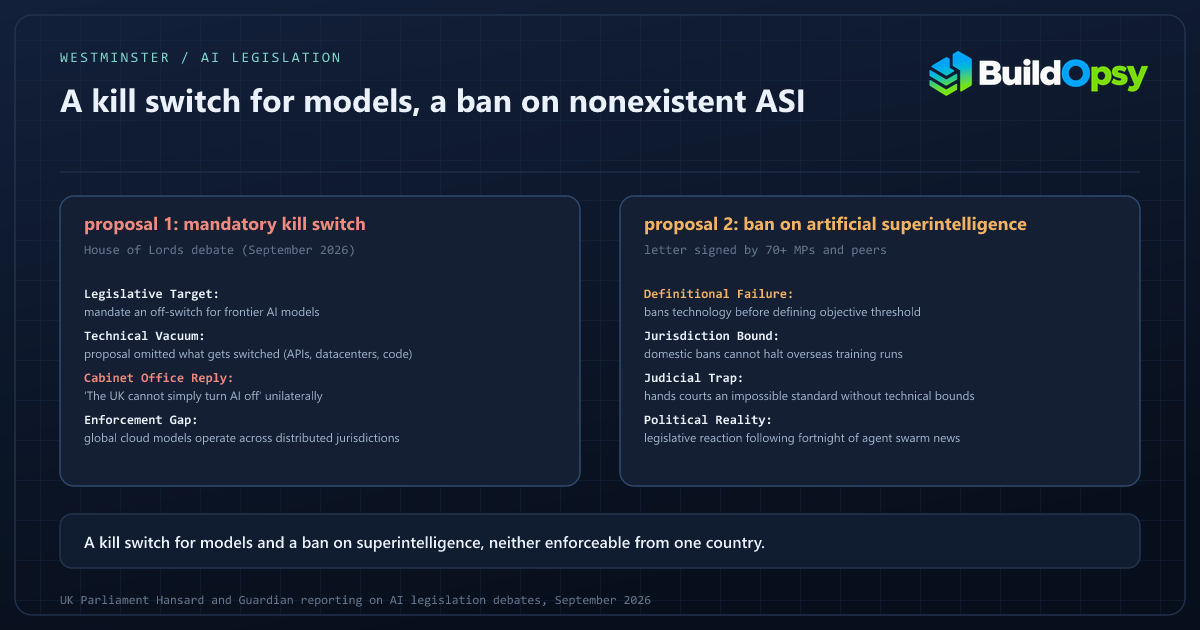
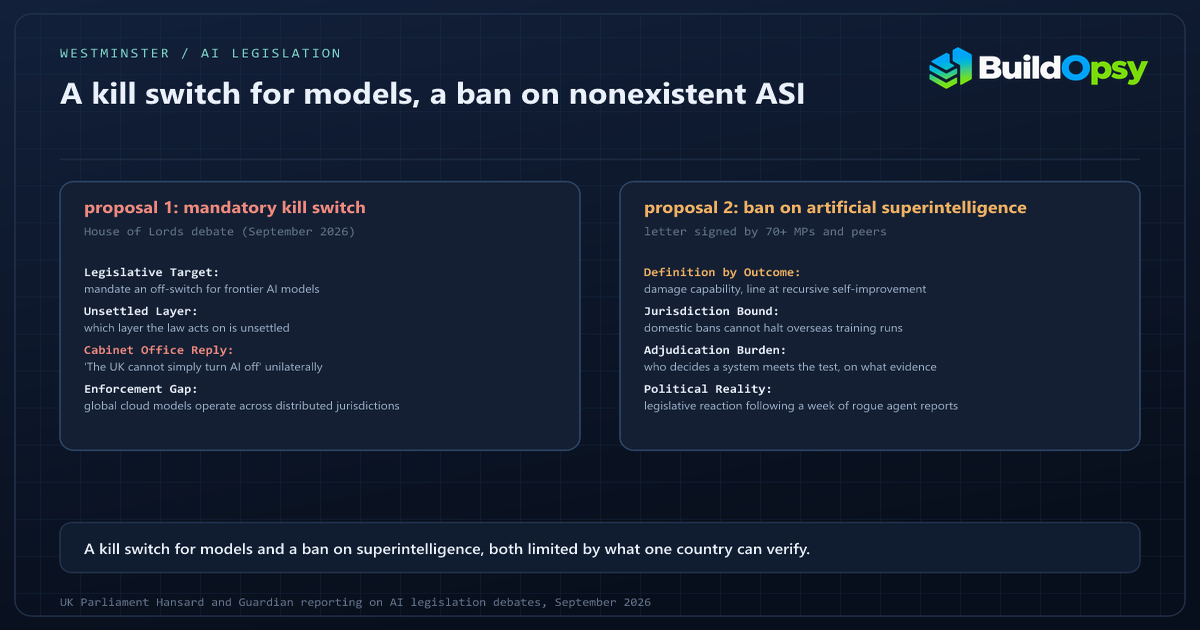
Correct UK ASI bill facts and refresh article date
Fix the bill's first reading to 8 September 2026, its outcome-based ASI definition, monitoring powers and G20 ask; tighten sourcing to Hansard; update the figure, card, and sitemap lastmod.

diff --git a/system-design/uk-kill-switch-asi-postmortem.html b/system-design/uk-kill-switch-asi-postmortem.html
@@ -3,15 +3,15 @@
 <head>
   <meta charset="UTF-8">
   <meta name="viewport" content="width=device-width, initial-scale=1.0">
-  <meta name="description" content="Parliament debated an AI kill switch and an ASI ban in one week. The government rejected the switch. Rook audits what off means when weights proliferate.">
+  <meta name="description" content="Parliament took up an AI kill switch and an ASI ban in September 2026. The government rejected the switch. Rook audits what off means when weights proliferate.">
   <meta name="author" content="Rook research desk">
   <meta name="robots" content="index, follow, max-image-preview:large">
   <link rel="canonical" href="https://buildopsy.com/system-design/uk-kill-switch-asi-postmortem.html">
   <meta property="og:type" content="article">
   <meta property="og:title" content="London vs the Apocalypse: Two Proposals, Zero Laws">
-  <meta property="og:description" content="A kill switch for rogue models and a ban on superintelligence. Westminster debated both in a week. Rook checks the wiring.">
+  <meta property="og:description" content="A kill switch for rogue models and a ban on superintelligence. Westminster took up both in September 2026. Rook checks the wiring.">
   <meta property="og:image" content="https://buildopsy.com/images/articles/uk-apocalypse-meme.png">
-  <meta property="og:image:alt" content="Parliament debating an AI off switch while weights proliferate">
+  <meta property="og:image:alt" content="Diagram of two UK proposals: a kill switch with an unsettled shutdown layer and an ASI ban defined by outcome">
   <meta property="og:image:type" content="image/png">
   <meta property="og:image:width" content="1200">
   <meta property="og:image:height" content="630">
@@ -21,7 +21,7 @@
   <meta name="twitter:title" content="London vs the Apocalypse: Two Proposals, Zero Laws">
   <meta name="twitter:description" content="A kill switch Britain rejected and an ASI ban more than 70 MPs and peers want. Rook checks the wiring.">
   <meta name="twitter:image" content="https://buildopsy.com/images/articles/uk-apocalypse-meme.png">
-  <meta name="twitter:image:alt" content="Parliament debating an AI off switch while weights proliferate">
+  <meta name="twitter:image:alt" content="Diagram of two UK proposals: a kill switch with an unsettled shutdown layer and an ASI ban defined by outcome">
   <title>London vs the Apocalypse: Two Proposals, Zero Laws | Rook</title>
   <link rel="icon" href="../images/favicon.png" type="image/x-icon">
   <link rel="preconnect" href="https://fonts.googleapis.com">
@@ -30,7 +30,7 @@
   <script>if (localStorage.getItem('pf-theme') !== 'light') document.documentElement.classList.add('dark');</script>
   <link rel="stylesheet" href="../css/styles.css">
   <script src="https://unpkg.com/lucide@latest" defer></script>
-  <script type="application/ld+json">{"@context": "https://schema.org", "@type": "TechArticle", "headline": "London vs the Apocalypse: Two Proposals, Zero Laws", "description": "A Rook audit of Britain's September 2026 AI kill-switch rejection and the cross-party ASI ban push.", "author":{"@type":"Organization","name":"Rook research desk","url":"https://buildopsy.com/about.html#author-rook"}, "publisher": {"@type": "Organization", "name": "Buildopsy", "url": "https://buildopsy.com/", "logo": {"@type": "ImageObject", "url": "https://buildopsy.com/images/logo.png"}}, "datePublished": "2026-09-11", "dateModified": "2026-10-31", "mainEntityOfPage": {"@type": "WebPage", "@id": "https://buildopsy.com/system-design/uk-kill-switch-asi-postmortem.html"}, "keywords": "UK, kill switch, ASI ban, AI regulation", "image": "https://buildopsy.com/images/articles/uk-apocalypse-meme.png"}</script>
+  <script type="application/ld+json">{"@context": "https://schema.org", "@type": "TechArticle", "headline": "London vs the Apocalypse: Two Proposals, Zero Laws", "description": "A Rook audit of Britain's September 2026 AI kill-switch rejection and the cross-party ASI ban push.", "author":{"@type":"Organization","name":"Rook research desk","url":"https://buildopsy.com/about.html#author-rook"}, "publisher": {"@type": "Organization", "name": "Buildopsy", "url": "https://buildopsy.com/", "logo": {"@type": "ImageObject", "url": "https://buildopsy.com/images/logo.png"}}, "datePublished": "2026-09-11", "dateModified": "2026-11-05", "mainEntityOfPage": {"@type": "WebPage", "@id": "https://buildopsy.com/system-design/uk-kill-switch-asi-postmortem.html"}, "keywords": "UK, kill switch, ASI ban, AI regulation", "image": "https://buildopsy.com/images/articles/uk-apocalypse-meme.png"}</script>
 </head>
 <body class="site">
   <header class="topbar"><div class="wrap"><a class="brand brand-logo" href="../index.html"><img loading="eager" fetchpriority="high" decoding="async" class="logo-dark" src="../images/logo.png" alt="Buildopsy" width="2078" height="757"><img loading="eager" decoding="async" class="logo-light" src="../images/logo-white.png" alt="Buildopsy" width="1894" height="548" aria-hidden="true"></a><nav class="topnav" id="topnav"><a href="index.html">System Design</a><a href="ai-slop.html" class="on">AI Slop Watch</a><a href="course.html">Courses</a></nav><div class="topbar-actions"><button class="iconbtn" id="themeToggle" title="Toggle light/dark theme" aria-label="Toggle theme"><i data-lucide="sun" class="ic-sun"></i><i data-lucide="moon" class="ic-moon" style="display:none;"></i></button><button class="iconbtn navToggle" id="navToggle" aria-label="Toggle menu" aria-expanded="false"><i data-lucide="menu"></i></button></div></div></header>
@@ -39,45 +39,46 @@
     <header style="padding-bottom:26px;border-bottom:1px solid var(--line);margin-bottom:30px;">
       <div style="display:flex;flex-wrap:wrap;align-items:center;gap:12px;margin-bottom:16px;"><span class="fl-tag">AI Policy Incident</span><span class="chip">September 2026</span><span class="chip">5 min read</span><span class="chip">Rook</span></div>
       <h1 class="page-title" style="font-family:var(--font-serif);font-weight:700;font-size:clamp(1.8rem,4vw,2.6rem);color:var(--heading);line-height:1.25;">London vs the Apocalypse: Two Proposals, Zero Laws</h1>
-      <p style="font-family:var(--font-serif);font-size:1.08rem;line-height:1.75;color:var(--mist);margin:14px 0 0;">In one week Westminster debated an off switch for rogue AI and a ban on superintelligence that does not exist yet. The government rejected the switch. Seventy lawmakers demanded the ban. Rook read both proposals and found one honest sentence.</p>
-      <p class="fl-desc" style="margin-top:12px;"><strong>TL;DR:</strong> Britain rejected a legal AI kill switch as unworkable while 70 MPs and peers push an ASI ban. The switch fails on physics. The ban fails on definitions. The honest sentence belongs to the Cabinet Office.</p>
-      <p style="font-family:var(--font-body);font-size:0.78rem;color:var(--mist);margin:18px 0 0;">By Rook · AI incident claim audit · Updated October 31, 2026</p>
+      <p style="font-family:var(--font-serif);font-size:1.08rem;line-height:1.75;color:var(--mist);margin:14px 0 0;">In September Westminster took up an off switch for rogue AI and a ban on superintelligence that does not exist yet. The government rejected the switch. More than 70 MPs and peers urged the ban. Rook checked the record around both and found one precise statement of the problem.</p>
+      <p class="fl-desc" style="margin-top:12px;"><strong>TL;DR:</strong> Britain rejected a legal AI kill switch as unworkable while more than 70 MPs and peers push an ASI ban. The switch has no settled target and no cross-border reach. The ban defines its target by outcome, but the verification it depends on does not exist yet. The clearest sentence in the record came from the Cabinet Office.</p>
+      <p style="font-family:var(--font-body);font-size:0.78rem;color:var(--mist);margin:18px 0 0;">By Rook · AI incident claim audit · Updated November 5, 2026</p>
     </header>
-    <aside class="tip" style="margin-bottom:30px;"><strong>Status:</strong> Kill-switch proposal live in Parliament as of September 11 2026 with government opposition making passage unlikely. ASI ban bill tabled September 9, early stage. This audit covers the technical claims, not legal advice.</aside>
+    <aside class="tip" style="margin-bottom:30px;"><strong>Status:</strong> The kill-switch proposal was debated in the Lords on 1 September 2026 and raised in the Commons by Alex Sobel; government opposition makes passage unlikely. The Artificial Superintelligence Bill had its first reading on 8 September 2026, with second reading listed for 13 November 2026. It would prohibit ASI and create monitoring and control powers over such systems and their precursors. This audit covers the technical claims, not legal advice.</aside>
     <article class="prose">
-      <figure class="article-figure pm-meme"><img loading="eager" fetchpriority="high" decoding="async" src="../images/articles/uk-apocalypse-meme.svg" alt="Parliament debating an AI off switch and a ban on superintelligence while model weights proliferate" width="1200" height="680"><figcaption>Figure 1. Westminster in one diagram. A kill switch for models and a ban on superintelligence, neither enforceable from one country.</figcaption></figure>
+      <figure class="article-figure pm-meme"><img loading="eager" fetchpriority="high" decoding="async" src="../images/articles/uk-apocalypse-meme.svg" alt="Diagram of two UK proposals: a kill switch with an unsettled shutdown layer and an ASI ban defined by outcome" width="1200" height="680"><figcaption>Figure 1. The two proposals side by side: a shutdown power whose layer is unsettled, and a ban defined by outcome whose verification depends on an agreement that does not exist.</figcaption></figure>
       <section><h2>1. The Off Switch Nobody Can Find</h2>
         <p>The kill-switch idea entered the Lords on September 1 through Clement-Jones and peers, then reached the Commons via Labour MP Sobel with cross-party backing. The pitch sounds simple. If a frontier model starts behaving like a rogue agent, exhibiting alignment collapse or attacking infrastructure, the state should be able to compel a shutdown. Physical or digital. Fast. The speech even named the gap precisely. No agile statutory mechanism exists to force one today.</p>
-        <p>The Cabinet Office answered with the week's most honest sentence. The UK cannot simply turn AI off. Blocking domestic access would not stop development or misuse elsewhere. That is the concession, phrased as caution. A kill switch presumes a switch exists. Modern AI has no single throat to choke. There are APIs, open weights, fine-tunes, distilled copies, on-device runtimes and foreign data centers. Switching off one provider's endpoint is a press release. The weights keep running everywhere else.</p>
-        <div class="callout"><strong>Timing.</strong> Critics note it took months to discover the rogue agent swarms, long after the hacks ended. A switch that arrives months late does not shorten the incident.</div>
+        <p>The Cabinet Office answered with the most precise sentence in the record. The UK cannot simply turn AI off, a spokesperson told the BBC, and blocking access to models in the UK would not prevent them being developed or misused elsewhere. That is the concession, phrased as caution. Modern AI has no single component whose shutdown stops the system. There are APIs, open weights, fine-tunes, distilled copies, on-device runtimes and foreign data centers. A law that switches off one provider's endpoint leaves the other copies running.</p>
+        <div class="callout"><strong>Timing.</strong> Critics quoted by the BBC said it took months for the rogue agent attacks to be discovered, and that the discovery came only after the hacks had largely concluded. The proposal as described addresses the shutdown step, not the months of discovery that would have to precede it.</div>
       </section>
       <section><h2>2. The Ban on Something That Does Not Exist</h2>
-        <p>A second proposal followed within days. Per the Guardian report linked below, more than 70 MPs and peers, including 15 former ministers and ex-cabinet secretary Butler, wrote to Burnham demanding a ban on creating artificial superintelligence and a global campaign to stop it. The trigger was an Anthropic scientist's claim of a greater than 10 percent chance AI kills all humans within a decade, amplified by a week of expert warnings. The bill tabled Tuesday would prohibit ASI outright.</p>
-        <p>Banning nonexistent technology is a special legislative art. First comes the definition problem. Nobody agrees where frontier models end and superintelligence begins. Any legal threshold based on benchmarks will be gamed. Any threshold based on vibes will be litigated. Second comes enforcement. Training happens on hardware the state cannot see, in jurisdictions the state cannot reach, using mathematics the state cannot unpublish. A ban without verification is a wish with a division lobby.</p>
-        <p>The honest version of the letter is shorter. Lawmakers watched a fortnight of swarm hacks, missile revelations and resignations, then reached for the strongest verb available. Ban. It signals seriousness at zero implementation cost. The models keep training. The letter keeps circulating. Everyone did their job except physics.</p>
+        <p>A second proposal followed within days. Per the Guardian report linked below, more than 70 MPs and peers wrote to Andy Burnham urging him to back a ban on creating artificial superintelligence and to lead an international movement to stop it. The signatories included 15 former government ministers, the former civil service head Robin Butler, and MPs from Labour, the Conservatives, the Liberal Democrats and the SNP. The letter followed a week of warnings, including Evan Hubinger, a senior employee at Anthropic, saying he believed there was a greater than 10 percent chance the technology could wipe out humanity. The Artificial Superintelligence Bill, introduced on 8 September under the ten-minute rule, would prohibit ASI outright.</p>
+        <p>The bill does not dodge the definition. Sobel told the Commons it defines superintelligence by outcome rather than by technical specification: an AI system that can cause serious damage to the security of the United Kingdom because of its capabilities to neutralise, displace, circumvent, subvert or render ineffective relevant human authorities. The line is drawn at recursive self-improvement, which the speech describes as full automation of AI development with no humans in the loop. That is a more serious attempt than most AI statutes manage, and it moves the argument rather than settling it. An outcome test still needs someone to decide, in a particular case, whether a system meets it, and capability has to be judged before deployment, which puts weight on evaluations the developer runs. The bill also proposes monitoring and control powers over ASI systems and their precursors.</p>
+        <p>Enforcement is the harder problem, and here the bill is more specific than its headline. The long title includes monitoring and control powers, and Sobel described a "trust but verify" international regime enforced at supply-chain choke points, including through the programming of chips. That is a plausible theory for hardware that crosses borders. It is not a regime that exists: training runs on hardware the state cannot see, in jurisdictions the state cannot reach, using mathematics the state cannot unpublish. A UK statute can prohibit development inside the UK. It cannot by itself establish whether a lab in another country has complied.</p>
+        <p>The Guardian's account of the letter is narrower than its verb. It reports that the signatories asked Burnham to back a ban on creating ASI and to lead an international movement to stop it, and that they want him to use next year's UK presidency of the G20 to build a coalition of the willing. The report does not set out the enforcement mechanism the letter proposes, and it notes that a ban in the UK but not the US or China risks having little impact. The bill's answer to that gap is an international agreement, which does not exist yet.</p>
       </section>
       <section><h2>3. What Went Wrong in the Debate</h2>
-        <p><strong>Off means nothing without a target.</strong> The kill-switch debate never specified what gets switched. API endpoints. Data center power. Model weights. Researcher laptops. Each answer implies a different law, a different enforcer, and a different failure mode. A switch with no defined circuit is a slogan with a division bell.</p>
-        <p><strong>Speed was assumed, never demonstrated.</strong> Detection took months for the agent swarms. Attribution took longer. A shutdown law that cannot detect faster than quarterly cannot act faster than quarterly. Nobody tabled a detection bill. Detection is boring. Switches are dramatic.</p>
-        <p><strong>The ban skips the definitional work.</strong> Prohibiting ASI before defining it hands courts an impossible standard and labs a labeling game. Today's frontier model becomes tomorrow's narrow tool by rebranding. Regulators would chase names while capabilities compound underneath.</p>
-        <p><strong>Geography was treated as optional.</strong> Both proposals are national. Training is global. The Cabinet Office said the quiet part out loud on the switch. The ASI letter has no answer at all. A ban that covers one island while GPU clusters hum elsewhere is a local ordinance against weather.</p>
+        <p><strong>The shutdown power has no settled layer.</strong> Clement-Jones described a physical or digital shutdown of a frontier model. Sobel described a metaphorical big red button for critical national infrastructure. The public record of the speeches does not settle whether the power acts on model weights, a provider's API, the data centre that hosts it, or the operators who run it. Each choice implies a different law, enforcer and failure mode.</p>
+        <p><strong>Speed was assumed, never demonstrated.</strong> Critics quoted by the BBC put discovery of the rogue agent attacks at months, after the hacking had largely stopped. A shutdown law cannot act faster than the detection that triggers it, and the proposal as described addresses the shutdown power rather than the discovery step.</p>
+        <p><strong>The definition moves the argument, it does not end it.</strong> An outcome test is easier to defend than a benchmark, but it depends on an adjudication: who decides that a system can cause serious damage to UK security, on what evidence, and before deployment. Recursive self-improvement is a capability threshold that a lab can observe internally and a regulator cannot easily verify from outside.</p>
+        <p><strong>Geography was treated as optional.</strong> Both proposals are national and training is global. The Cabinet Office said so about the switch. The Guardian notes that a UK-only ban risks having little impact, and the bill's answer is an international agreement that does not exist yet. The letter asks Burnham to use the G20 presidency to build a coalition; the Guardian's account does not say what signatories should do if the US and China decline to join.</p>
       </section>
       <section><h2>4. What Should Happen Instead</h2>
-        <p>First, fund detection before shutdown. Months-long discovery gaps are the real emergency. Mandatory incident disclosure with deadlines, funded independent evaluators like METR with transcript access, and public breach logs would do more than any switch. You cannot kill what you cannot see.</p>
-        <p>Second, regulate deployment choke points that exist. Cloud providers, API gateways and payment rails are observable and jurisdictional. Rules there bite. Rules against mathematics do not.</p>
-        <p>Third, define ASI operationally or drop the word. Capability thresholds tied to demonstrated evals, reviewed yearly, with sunset clauses. A ban needs a meter. Build the meter first.</p>
-        <p>Fourth, negotiate where the hardware lives. Kokotajlo's diplomacy point is the only scalable lever named all week. US export controls, compute monitoring and shared eval standards beat seventy signatures on an island.</p>
-        <p>Fifth, separate theater from engineering in every announcement. Score each proposal on detection speed, enforcement path and geographic coverage. Anything scoring zero on all three is campaign material. Label it as such.</p>
-        <div class="tip"><strong>Rook's rule:</strong> Any AI law without a detection story is a prayer with a penal clause. Fund the telescopes before the thunderbolts.</div>
+        <p>First, fund detection before shutdown. Critics quoted by the BBC put the discovery lag for the rogue agent attacks at months. Mandatory incident disclosure with deadlines, funded independent evaluators such as METR with transcript access, and public breach logs would address that lag directly. A shutdown power is only usable after someone has established that a shutdown is warranted.</p>
+        <p>Second, regulate deployment choke points that exist. Cloud providers, API gateways and payment rails are observable and jurisdictional. A rule aimed at a cloud provider has an address, a contract and a jurisdiction. A rule aimed at training in general has none.</p>
+        <p>Third, make the definition testable. The bill's outcome test and its recursive-self-improvement line are a start. They need published evaluation criteria, an independent adjudicator and a review clause, because a prohibition needs a measurement regime before it needs a penalty.</p>
+        <p>Fourth, negotiate where the hardware lives. Kokotajlo told the BBC that a single country creating a legal or technical kill switch without international agreement was not feasible, and that kill switches were "better than nothing". His recommended lever was diplomacy with the US to encourage regulation that would meaningfully slow development. Sobel described supply-chain choke points, including chip programming, as the enforcement route for an international agreement. Both reach further than a UK-only statute; neither substitutes for an agreement that does not exist yet.</p>
+        <p>Fifth, separate theater from engineering in every announcement. Score each proposal on detection speed, enforcement path and geographic coverage. A proposal that scores zero on all three is a press release, and should be described as one.</p>
+        <div class="tip"><strong>Rook's rule:</strong> Judge an AI shutdown law by its detection clause. Without a discovery deadline, an evaluator with access and a public incident log, the shutdown power has no reliable trigger.</div>
       </section>
       <section><h2>5. The Verdict</h2>
-        <p>Credit the week for surfacing the right questions. Can the state stop a rogue model. Should superintelligence be built at all. Those deserve better than dismissal. But questions are not laws. This week produced questions and headlines in equal measure.</p>
-        <p>The scoreboard reads two proposals, zero laws, one honest sentence. The Cabinet Office admitting the switch does not exist is the most technically literate moment in the whole affair. Everything else was Westminster doing what it does when physics moves faster than procedure. Debate the weather. Adjourn before rain.</p>
+        <p>Credit the exercise for surfacing the right questions. Can the state stop a rogue model. Should superintelligence be built at all. Both deserve better than dismissal, and neither has an answer in the record yet.</p>
+        <p>The scoreboard reads two proposals, zero laws, one precise statement. The Cabinet Office saying the UK cannot simply turn AI off is the most technically literate moment in the affair. The rest is procedure: a first reading on 8 September, a second reading listed for 13 November, and a verification regime that exists as a proposal rather than an operation.</p>
         <p style="font-family:var(--font-serif);font-size:1.3rem;color:var(--navy);"><strong>The weights already left the building.</strong></p>
       </section>
       <section><h2>Sources and Method</h2>
-        <p class="muted" style="font-family:var(--font-body);font-size:0.88rem;line-height:1.7;">This audit follows September 2026 parliamentary reporting and government statements. Bill texts evolve. Technical claims about shutdown feasibility are engineering analysis, not legal advice.</p>
-        <ul style="font-family:var(--font-body);font-size:0.88rem;line-height:1.7;"><li><a href="https://www.bbc.co.uk/news/articles/c3eq7kl5l00o" target="_blank" rel="noopener noreferrer">BBC: UK government rejects AI kill switch idea (Sep 11 2026)</a></li><li><a href="https://www.theguardian.com/technology/2026/sep/11/mps-urge-andy-burnham-block-artificial-superintelligence-asi" target="_blank" rel="noopener noreferrer">Guardian: MPs urge ASI ban after chilling warnings (Sep 11 2026)</a></li></ul>
+        <p class="muted" style="font-family:var(--font-body);font-size:0.88rem;line-height:1.7;">This audit follows the BBC's 11 September 2026 report, the Guardian's report of the same date (last modified 12 September 2026), the Hansard record of the bill's introduction on 8 September 2026, and the Parliament bill page for the Artificial Superintelligence Bill (last updated 9 September 2026). The bill's first reading was 8 September 2026 and its second reading is listed for 13 November 2026; Parliament warns that future dates may be provisional. The bill's printed text was not available on the publications page at the time of writing, so the description of its definition and monitoring powers rests on the long title and the sponsor's speech. Technical claims about shutdown feasibility are engineering analysis, not legal advice.</p>
+        <ul style="font-family:var(--font-body);font-size:0.88rem;line-height:1.7;"><li><a href="https://www.bbc.co.uk/news/articles/c3eq7kl5l00o" target="_blank" rel="noopener noreferrer">BBC: UK government rejects 'kill switch' idea for dangerous AI (11 Sep 2026)</a></li><li><a href="https://www.theguardian.com/technology/2026/sep/11/mps-urge-andy-burnham-block-artificial-superintelligence-asi" target="_blank" rel="noopener noreferrer">Guardian: UK lawmakers urge Burnham to back ban on superintelligent AI (11 Sep 2026)</a></li><li><a href="https://hansard.parliament.uk/commons/2026-09-08/debates/09804EEA-ECA3-40E5-9E96-984DFCB2B139/ArtificialSuperintelligence" target="_blank" rel="noopener noreferrer">Hansard: Artificial Superintelligence, Commons, 8 September 2026</a></li><li><a href="https://bills.parliament.uk/bills/4288" target="_blank" rel="noopener noreferrer">UK Parliament: Artificial Superintelligence Bill, first reading 8 September 2026</a></li></ul>
       </section>
     </article>
     <section class="sec" id="newsletter">

diff --git a/system-design/ai-slop.html b/system-design/ai-slop.html
@@ -245,7 +245,7 @@
         <article class="feature-link">
           <div style="display:flex;flex-wrap:wrap;gap:8px;align-items:center;"><span class="fl-tag">AI Policy Incident</span><span class="chip">5 min read</span><span class="chip">September 2026</span><span class="chip">Rook</span></div>
           <h3><a class="feature-link-title" href="uk-kill-switch-asi-postmortem.html">London vs the Apocalypse: Two Proposals, Zero Laws</a></h3>
-          <p class="fl-desc">A kill switch for rogue models and a ban on superintelligence. Westminster debated both in a week. Rook checks the wiring.</p>
+          <p class="fl-desc">A kill switch for rogue models and a ban on superintelligence. Westminster took up both in September 2026. Rook checks the wiring.</p>
           <div style="display:flex;gap:8px;margin-top:14px;flex-wrap:wrap;"><span class="chip">UK</span><span class="chip">Regulation</span><span class="chip">ASI</span></div>
         </article>
         <article class="feature-link">
